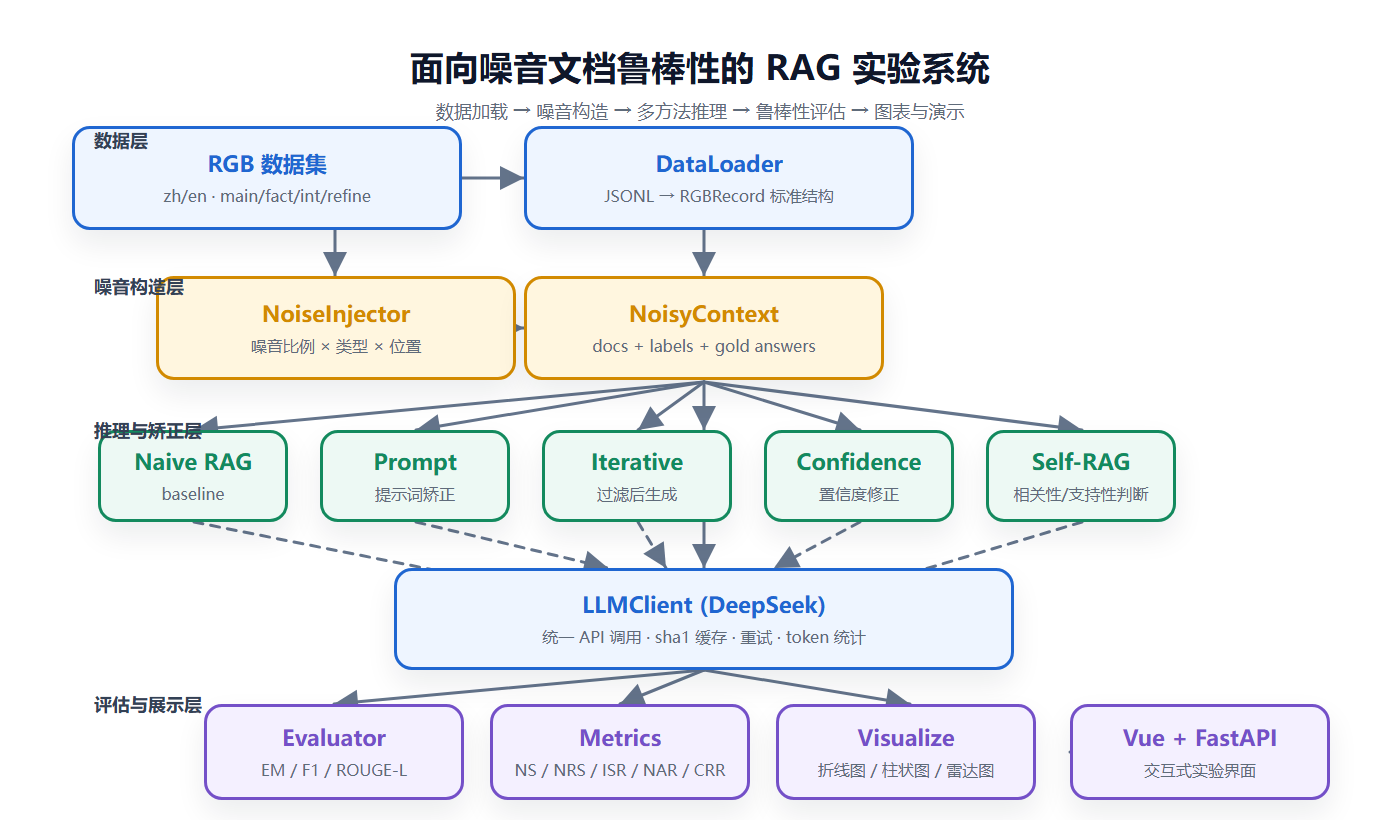
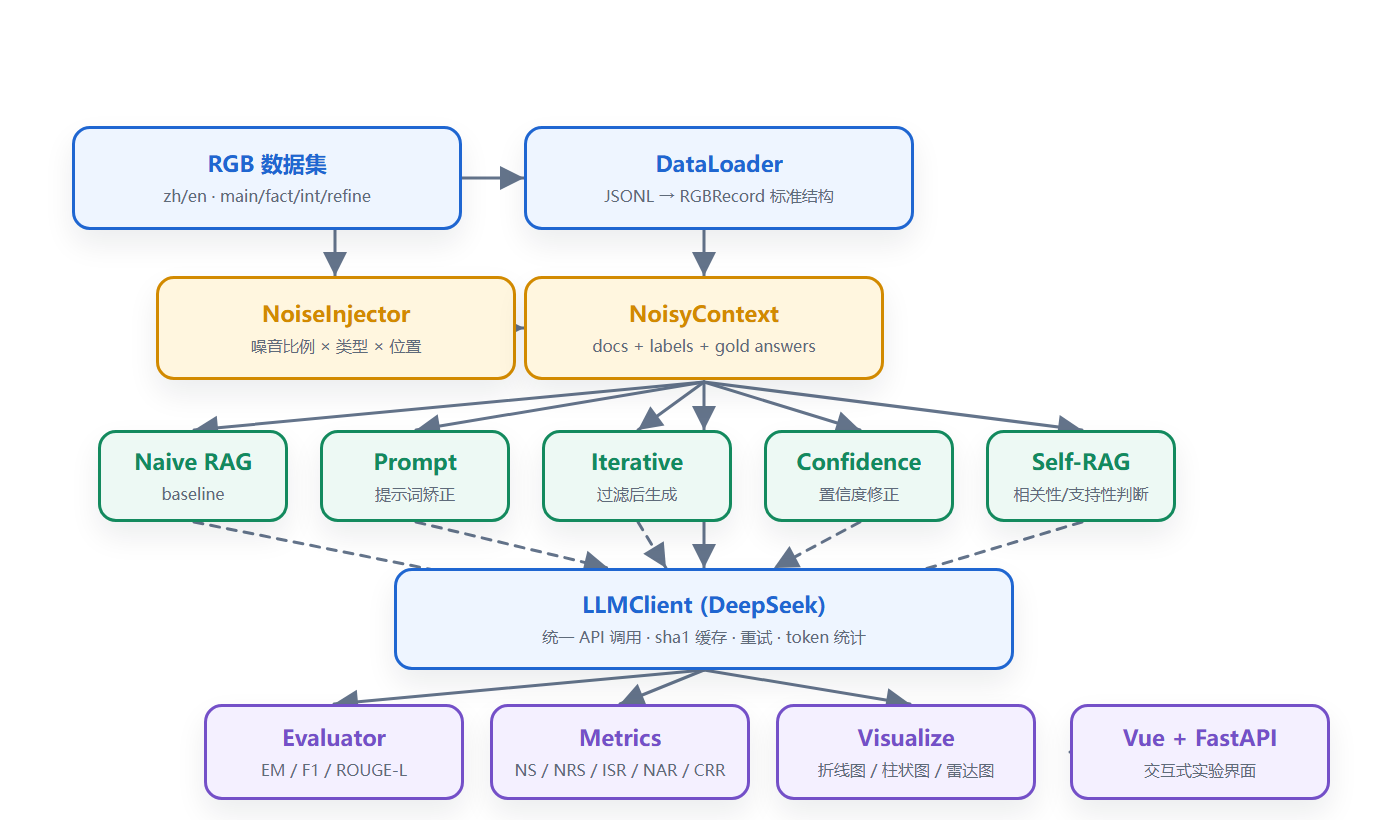
修改pdf，加了todolist，反事实数据集的图，然后去了一些奇怪的段落

diff --git a/report_latex/figures/data_engine.html b/report_latex/figures/data_engine.html
@@ -1,0 +1,231 @@
+<!doctype html>
+<html lang="zh-CN">
+<head>
+  <meta charset="utf-8">
+  <title>数据构建引擎流程图</title>
+  <style>
+    * { box-sizing: border-box; margin: 0; padding: 0; }
+    body {
+      background: #fff;
+      font-family: "Microsoft YaHei", "PingFang SC", sans-serif;
+      color: #1e293b;
+    }
+    .canvas {
+      width: 1100px;
+      padding: 32px 36px 28px;
+    }
+
+    .pipeline {
+      display: flex;
+      align-items: center;
+      justify-content: center;
+      gap: 0;
+      padding-top: 14px;
+    }
+
+    .step-wrap {
+      display: flex;
+      align-items: center;
+      gap: 0;
+    }
+
+    .step {
+      width: 175px;
+      border-radius: 10px;
+      padding: 16px 14px 14px;
+      text-align: center;
+      position: relative;
+      border: 1.5px solid;
+    }
+
+    .step-num {
+      position: absolute;
+      top: -12px;
+      left: 50%;
+      transform: translateX(-50%);
+      width: 24px;
+      height: 24px;
+      border-radius: 50%;
+      font-size: 12px;
+      font-weight: 700;
+      display: flex;
+      align-items: center;
+      justify-content: center;
+      color: #fff;
+    }
+
+    .step-title {
+      font-size: 15px;
+      font-weight: 700;
+      margin: 6px 0 6px;
+    }
+
+    .step-desc {
+      font-size: 11px;
+      line-height: 1.6;
+      opacity: 0.8;
+    }
+
+    .s1 { background: #eff6ff; border-color: #93c5fd; }
+    .s1 .step-num { background: #3b82f6; }
+    .s1 .step-title { color: #1d4ed8; }
+
+    .s2 { background: #ecfdf5; border-color: #86efac; }
+    .s2 .step-num { background: #22c55e; }
+    .s2 .step-title { color: #15803d; }
+
+    .s3 { background: #fefce8; border-color: #fde047; }
+    .s3 .step-num { background: #eab308; }
+    .s3 .step-title { color: #a16207; }
+
+    .s4 { background: #fdf2f8; border-color: #f9a8d4; }
+    .s4 .step-num { background: #ec4899; }
+    .s4 .step-title { color: #be185d; }
+
+    .s5 { background: #f5f3ff; border-color: #c4b5fd; }
+    .s5 .step-num { background: #8b5cf6; }
+    .s5 .step-title { color: #6d28d9; }
+
+    .arrow {
+      width: 36px;
+      height: 2px;
+      background: linear-gradient(90deg, #94a3b8, #64748b);
+      position: relative;
+      flex-shrink: 0;
+    }
+    .arrow::after {
+      content: '';
+      position: absolute;
+      right: -1px;
+      top: -4px;
+      border: 5px solid transparent;
+      border-left: 7px solid #64748b;
+    }
+
+    .down-arrow {
+      width: 2px;
+      height: 28px;
+      background: linear-gradient(180deg, #94a3b8, #64748b);
+      margin: 0 auto;
+      position: relative;
+    }
+    .down-arrow::after {
+      content: '';
+      position: absolute;
+      bottom: -1px;
+      left: -4px;
+      border: 5px solid transparent;
+      border-top: 7px solid #64748b;
+    }
+
+    .output-row {
+      display: flex;
+      justify-content: center;
+      margin-top: 4px;
+    }
+
+    .output-box {
+      border: 2px solid #005bac;
+      border-radius: 10px;
+      padding: 12px 36px;
+      text-align: center;
+      background: linear-gradient(135deg, #eff6ff, #dbeafe);
+    }
+    .output-box .box-title {
+      font-size: 14px;
+      font-weight: 700;
+      color: #005bac;
+      margin-bottom: 3px;
+    }
+    .output-box .box-desc {
+      font-size: 11px;
+      color: #475569;
+    }
+
+    .footer {
+      margin-top: 20px;
+      padding-top: 14px;
+      border-top: 1px solid #e2e8f0;
+      display: flex;
+      justify-content: center;
+      gap: 32px;
+      font-size: 11px;
+      color: #64748b;
+    }
+    .footer b { color: #334155; }
+  </style>
+</head>
+<body>
+  <div class="canvas">
+
+    <div class="pipeline">
+      <div class="step-wrap">
+        <div class="step s1">
+          <div class="step-num">1</div>
+          <div class="step-title">关键词输入</div>
+          <div class="step-desc">用户输入主题关键词<br>如"量子力学""基因编辑"</div>
+        </div>
+      </div>
+
+      <div class="arrow"></div>
+
+      <div class="step-wrap">
+        <div class="step s2">
+          <div class="step-num">2</div>
+          <div class="step-title">文档爬取</div>
+          <div class="step-desc">中文维基百科 API<br>多策略搜索 · 20+ 篇文档</div>
+        </div>
+      </div>
+
+      <div class="arrow"></div>
+
+      <div class="step-wrap">
+        <div class="step s3">
+          <div class="step-num">3</div>
+          <div class="step-title">LLM 生成</div>
+          <div class="step-desc">DeepSeek 生成问答对<br>支撑文档 · 反事实文档</div>
+        </div>
+      </div>
+
+      <div class="arrow"></div>
+
+      <div class="step-wrap">
+        <div class="step s4">
+          <div class="step-num">4</div>
+          <div class="step-title">RGB 格式组装</div>
+          <div class="step-desc">positive / negative /<br>positive_wrong 标准字段</div>
+        </div>
+      </div>
+
+      <div class="arrow"></div>
+
+      <div class="step-wrap">
+        <div class="step s5">
+          <div class="step-num">5</div>
+          <div class="step-title">质量检查</div>
+          <div class="step-desc">字段完整性验证<br>格式合规性检查</div>
+        </div>
+      </div>
+    </div>
+
+    <div style="display: flex; justify-content: center; margin-top: 6px;">
+      <div class="down-arrow"></div>
+    </div>
+
+    <div class="output-row">
+      <div class="output-box">
+        <div class="box-title">高质量 RAG 鲁棒性测试数据</div>
+        <div class="box-desc">与 RGB 数据集格式兼容，可直接用于实验流水线</div>
+      </div>
+    </div>
+
+    <div class="footer">
+      <span><b>数据来源</b>　中文维基百科 API</span>
+      <span><b>生成模型</b>　DeepSeek-chat</span>
+      <span><b>输出格式</b>　RGB 标准 JSON</span>
+      <span><b>交互方式</b>　FastAPI SSE 实时推送</span>
+    </div>
+
+  </div>
+</body>
+</html>

diff --git a/report_latex/figures/case_example.html b/report_latex/figures/case_example.html
@@ -1,0 +1,161 @@
+<!doctype html>
+<html lang="zh-CN">
+<head>
+  <meta charset="utf-8">
+  <title>数据引擎生成案例</title>
+  <style>
+    * { box-sizing: border-box; margin: 0; padding: 0; }
+    body { background: #fff; font-family: "Microsoft YaHei", "PingFang SC", sans-serif; color: #1e293b; }
+    .page { width: 1050px; padding: 0; }
+
+    .header {
+      background: linear-gradient(135deg, #005bac, #0284c7);
+      color: #fff;
+      padding: 18px 28px;
+      display: flex;
+      align-items: center;
+      justify-content: space-between;
+    }
+    .header h1 { font-size: 16px; font-weight: 700; }
+    .header .kw { background: rgba(255,255,255,0.2); border-radius: 12px; padding: 3px 14px; font-size: 12px; }
+
+    .body { padding: 18px 28px 14px; }
+
+    /* Q&A card */
+    .qa-card {
+      display: grid;
+      grid-template-columns: 1fr 1fr;
+      gap: 12px;
+      margin-bottom: 16px;
+    }
+    .qa-block { border-radius: 8px; padding: 12px 14px; position: relative; }
+    .qa-block::before {
+      content: attr(data-label);
+      position: absolute; top: -8px; left: 12px;
+      background: #fff; padding: 0 6px;
+      font-size: 10px; font-weight: 700;
+    }
+    .q-block { background: #f0f9ff; border: 1.5px solid #93c5fd; }
+    .q-block::before { color: #2563eb; }
+    .a-block { background: #f0fdf4; border: 1.5px solid #86efac; }
+    .a-block::before { color: #16a34a; }
+    .qa-text { font-size: 12px; line-height: 1.7; }
+
+    /* Three document categories */
+    .doc-row {
+      display: grid;
+      grid-template-columns: 5fr 5fr 4fr;
+      gap: 12px;
+    }
+    .cat { border-radius: 8px; padding: 10px 12px; }
+    .cat-header {
+      display: flex; align-items: center; gap: 6px;
+      font-size: 12px; font-weight: 700;
+      margin-bottom: 8px;
+      padding-bottom: 6px;
+      border-bottom: 1.5px dashed;
+    }
+    .cat-count {
+      font-size: 10px; font-weight: 400;
+      opacity: 0.7;
+      margin-left: auto;
+    }
+    .cat-pos { background: #f7fdf9; }
+    .cat-pos .cat-header { color: #15803d; border-color: #bbf7d0; }
+    .cat-neg { background: #f8fafc; }
+    .cat-neg .cat-header { color: #475569; border-color: #e2e8f0; }
+    .cat-cf { background: #fff5f5; }
+    .cat-cf .cat-header { color: #dc2626; border-color: #fecaca; }
+
+    .dot { width: 8px; height: 8px; border-radius: 50%; flex-shrink: 0; }
+    .dot-pos { background: #22c55e; }
+    .dot-neg { background: #94a3b8; }
+    .dot-cf { background: #ef4444; }
+
+    .snippet {
+      font-size: 10px; line-height: 1.5; padding: 5px 8px;
+      border-radius: 4px; margin-bottom: 4px;
+      position: relative;
+      padding-left: 26px;
+    }
+    .snippet-idx {
+      position: absolute; left: 6px; top: 5px;
+      font-size: 9px; font-weight: 700; color: #fff;
+      width: 15px; height: 15px; border-radius: 3px;
+      display: flex; align-items: center; justify-content: center;
+    }
+    .s-pos { background: #ecfdf5; }
+    .s-pos .snippet-idx { background: #22c55e; }
+    .s-neg { background: #f1f5f9; }
+    .s-neg .snippet-idx { background: #94a3b8; }
+    .s-cf { background: #fef2f2; }
+    .s-cf .snippet-idx { background: #ef4444; }
+
+    .tamper { color: #dc2626; font-weight: 700; background: #fef2f2; padding: 0 2px; border-bottom: 2px solid #fca5a5; }
+
+    .footer {
+      margin-top: 10px; padding-top: 8px;
+      border-top: 1px solid #e2e8f0;
+      display: flex; gap: 20px; font-size: 10px; color: #94a3b8;
+    }
+    .footer b { color: #64748b; }
+    .badge { display: inline-block; padding: 1px 8px; border-radius: 10px; font-size: 9px; font-weight: 600; }
+    .badge-wiki { background: #dbeafe; color: #1d4ed8; }
+    .badge-llm { background: #fef3c7; color: #a16207; }
+    .badge-rgb { background: #ede9fe; color: #6d28d9; }
+  </style>
+</head>
+<body>
+<div class="page">
+  <div class="header">
+    <h1>数据构建引擎 · 生成样例</h1>
+    <span class="kw">关键词：黑洞</span>
+  </div>
+
+  <div class="body">
+    <div class="qa-card">
+      <div class="qa-block q-block" data-label="Question">
+        <div class="qa-text">基于黑洞的形成、观测和理论发展，请分析为什么黑洞长期以来被认为是数学上的好奇，直到20世纪60年代后才被接受为天体物理实体？</div>
+      </div>
+      <div class="qa-block a-block" data-label="Answer">
+        <div class="qa-text">黑洞长期被视为数学好奇，因为史瓦西解（1916）缺乏物理解释，芬克尔斯坦1958年才解释为不可逃逸区域。20世纪60年代后，中子星发现（1967）激发兴趣，理论工作显示黑洞是广义相对论的一般预测，随后通过X射线、恒星轨道和引力波观测证实。</div>
+      </div>
+    </div>
+
+    <div class="doc-row">
+      <div class="cat cat-pos">
+        <div class="cat-header"><span class="dot dot-pos"></span>支撑文档 Positive<span class="cat-count">4 篇</span></div>
+        <div class="snippet s-pos"><span class="snippet-idx">P0</span>黑洞是一种天体，因极高密度产生极大引力，所有粒子与光无法逃逸。广义相对论预测足够紧密的质量可扭曲时空形成黑洞…</div>
+        <div class="snippet s-pos"><span class="snippet-idx">P1</span>1916年史瓦西发现第一个广义相对论精确解，1958年芬克尔斯坦首次将其解释为无法逃脱的空间区域…</div>
+        <div class="snippet s-pos"><span class="snippet-idx">P2</span>20世纪60年代理论工作显示黑洞是广义相对论一般预测。1967年贝尔发现中子星，激发了人们对引力坍缩致密天体的兴趣…</div>
+        <div class="snippet s-pos"><span class="snippet-idx">P3</span>观测证据在20世纪后期逐步积累：X射线喷流、恒星轨道确定质量、2016年LIGO直接探测到引力波…</div>
+      </div>
+
+      <div class="cat cat-neg">
+        <div class="cat-header"><span class="dot dot-neg"></span>噪音文档 Negative<span class="cat-count">5 篇</span></div>
+        <div class="snippet s-neg"><span class="snippet-idx">N0</span>黑洞信息佯谬是量子力学与广义相对论结合时的难题。1970年代霍金发现黑洞会发出霍金辐射…</div>
+        <div class="snippet s-neg"><span class="snippet-idx">N1</span>恒星黑洞是大质量恒星引力坍塌后形成的黑洞，质量五至数十倍太阳。目前已知最大质量恒星黑洞15.65±1.45倍…</div>
+        <div class="snippet s-neg"><span class="snippet-idx">N2</span>超大质量黑洞质量是太阳的10⁵至10⁹倍。一般相信所有大型星系中心都存在超大质量黑洞…</div>
+        <div class="snippet s-neg"><span class="snippet-idx">N3</span>霍金（1942—2018），英国理论物理学家，贡献包括彭罗斯-霍金奇点定理及霍金辐射理论预测…</div>
+        <div class="snippet s-neg"><span class="snippet-idx">N4</span>黑洞热力学发展于1970年代，将热力学定律应用于黑洞研究，暗示广义相对论与量子理论的深刻联系…</div>
+      </div>
+
+      <div class="cat cat-cf">
+        <div class="cat-header"><span class="dot dot-cf"></span>反事实文档<span class="cat-count">2 篇</span></div>
+        <div class="snippet s-cf"><span class="snippet-idx">CF0</span>…史瓦西1916年发现解，1958年芬克尔斯坦解释。直到<span class="tamper">20世纪80年代</span>，贝尔·伯奈尔发现中子星才激发兴趣…</div>
+        <div class="snippet s-cf"><span class="snippet-idx">CF1</span>…20世纪60年代理论工作显示黑洞是一般预测。1967年，<span class="tamper">约翰·米歇尔</span>发现中子星，激发了引力坍缩致密天体兴趣…</div>
+        <div style="margin-top: 6px; font-size: 9px; color: #b91c1c; padding: 4px 8px; background: #fff5f5; border-radius: 4px; border: 1px dashed #fca5a5;">
+          <b>篡改策略：</b>CF0 将年份 60年代→80年代；CF1 将人物 贝尔·伯奈尔→约翰·米歇尔
+        </div>
+      </div>
+    </div>
+
+    <div class="footer">
+      <span><span class="badge badge-wiki">Wikipedia</span> 中文维基百科「黑洞」词条</span>
+      <span><span class="badge badge-llm">DeepSeek</span> DeepSeek-chat 生成</span>
+      <span><span class="badge badge-rgb">RGB</span> 与 RGB 数据集格式兼容</span>
+    </div>
+  </div>
+</div>
+</body>
+</html>